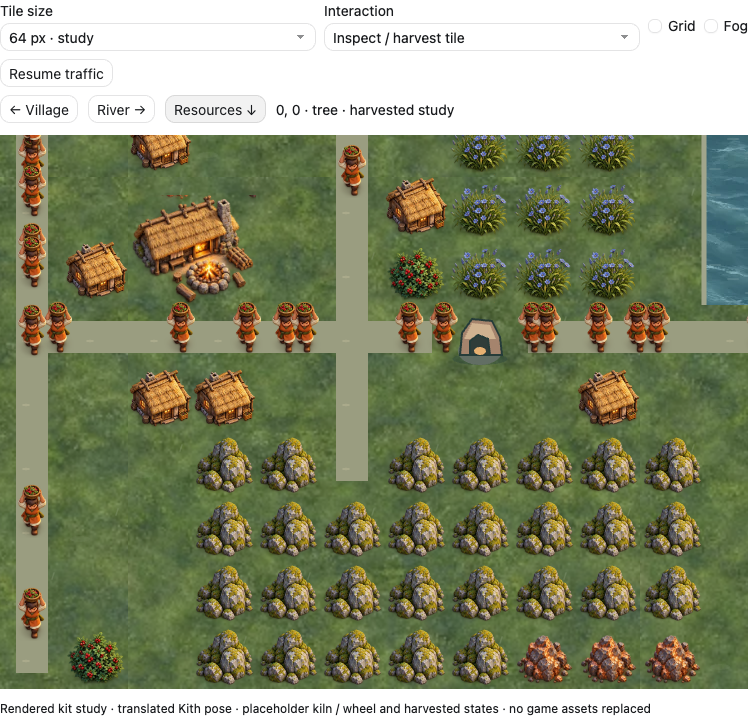
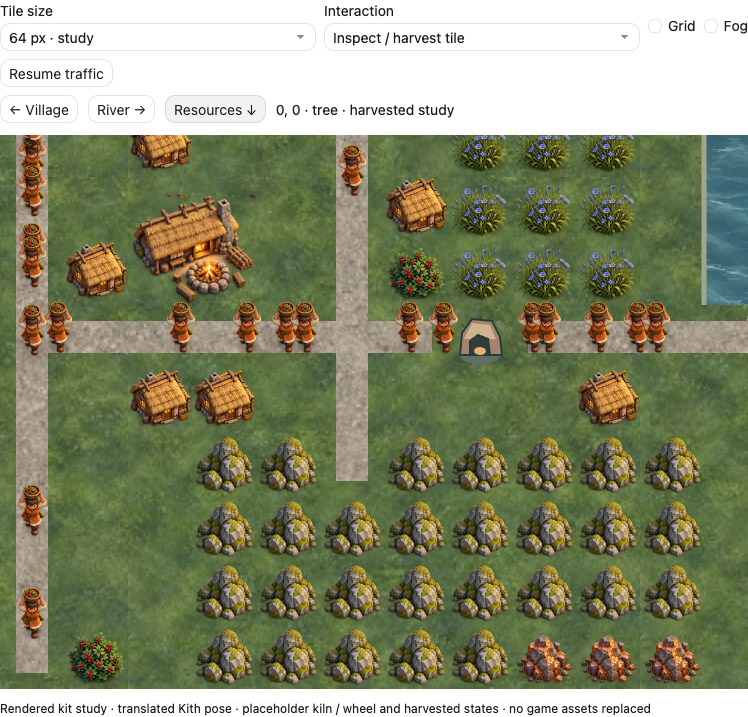
Add rendered road material to the tile kit

diff --git a/docs/art/overhaul/misty-highlands/README.md b/docs/art/overhaul/misty-highlands/README.md
@@ -14,7 +14,7 @@ Reviewed Jon's 39-second gameplay recording: approximately 100 Kith, dense resou
 
 ![Generated transparent atlas](sprite-atlas.png)
 
-The atlas contains tree, stone, berries, blue-flowered fiber, grain, clay, copper ore, cottage, Gatherer's Hut, Hearth, Kith, and bridge. Grass and water are separate ground textures. These are generated with the built-in image-generation tool; exact prompts are in [prompts.json](prompts.json). Original outputs are retained unmodified. Sprite rectangles are browser presentation metadata, not exported production sprites.
+The atlas contains tree, stone, berries, blue-flowered fiber, grain, clay, copper ore, cottage, Gatherer's Hut, Hearth, Kith, and bridge. Grass, road earth and water are separate ground textures. Road earth is clipped to neighbor-connected orthogonal paths in the browser study. These are generated with the built-in image-generation tool; exact prompts are in [prompts.json](prompts.json). Original outputs are retained unmodified. Sprite rectangles are browser presentation metadata, not exported production sprites.
 
 Direction: dimensional thatch and timber, sculpted mossy stone, cool green ground, readable warm clothing and fire. Keep the square placement model; avoid decorative square object plates. Quiet ground supports dense objects. Scale is still an evaluation, not an approved engine change.
 
@@ -22,7 +22,7 @@ Direction: dimensional thatch and timber, sculpted mossy stone, cool green groun
 
 - This is an art test, not an engine screenshot or a Godot playtest. The map is representative, not reconstructed from a save.
 - The accompanying browser prototype has 64 illustrative road-following haulers, selection, fake resource-state toggles, placement previews, grid/fog toggles, and camera navigation. It does not implement gameplay. Kith uses one translated pose; there is no validated walk cycle or directional animation.
-- Kiln, water wheel, harvested states, roads and riverbank transitions remain simplified placeholders. The generated atlas has imperfect cell spacing and a three-quarter camera despite the more overhead prompt. Camera consistency, alpha edges, repeated variants, resource depletion semantics and spritesheet layout need a controlled production pass.
+- Kiln, water wheel, harvested states and riverbank transitions remain simplified placeholders; road edges still use a simple geometric mask. The generated atlas has imperfect cell spacing and a three-quarter camera despite the more overhead prompt. Camera consistency, alpha edges, repeated variants, resource depletion semantics and spritesheet layout need a controlled production pass.
 - Grass and water were requested seamless; exact edge continuity has not been proven. The browser tests repetition only. Production needs matched edge and corner tiles and a repeat/seam check.
 - Production is currently SVG-only. Raster imports, an atlas loader or rendered spritesheets require a reviewed pipeline change by Claude; these PNGs are isolated under the parent `.gdignore`. Do not copy them into `art/sprites/`.
 - Treat animations as separate aligned directional sheets: shared anchors and sizes, restrained walk/work motion, separate fire/smoke, and reduced-motion support. Lighting and fog should remain separate layers rather than baked into every sprite.
